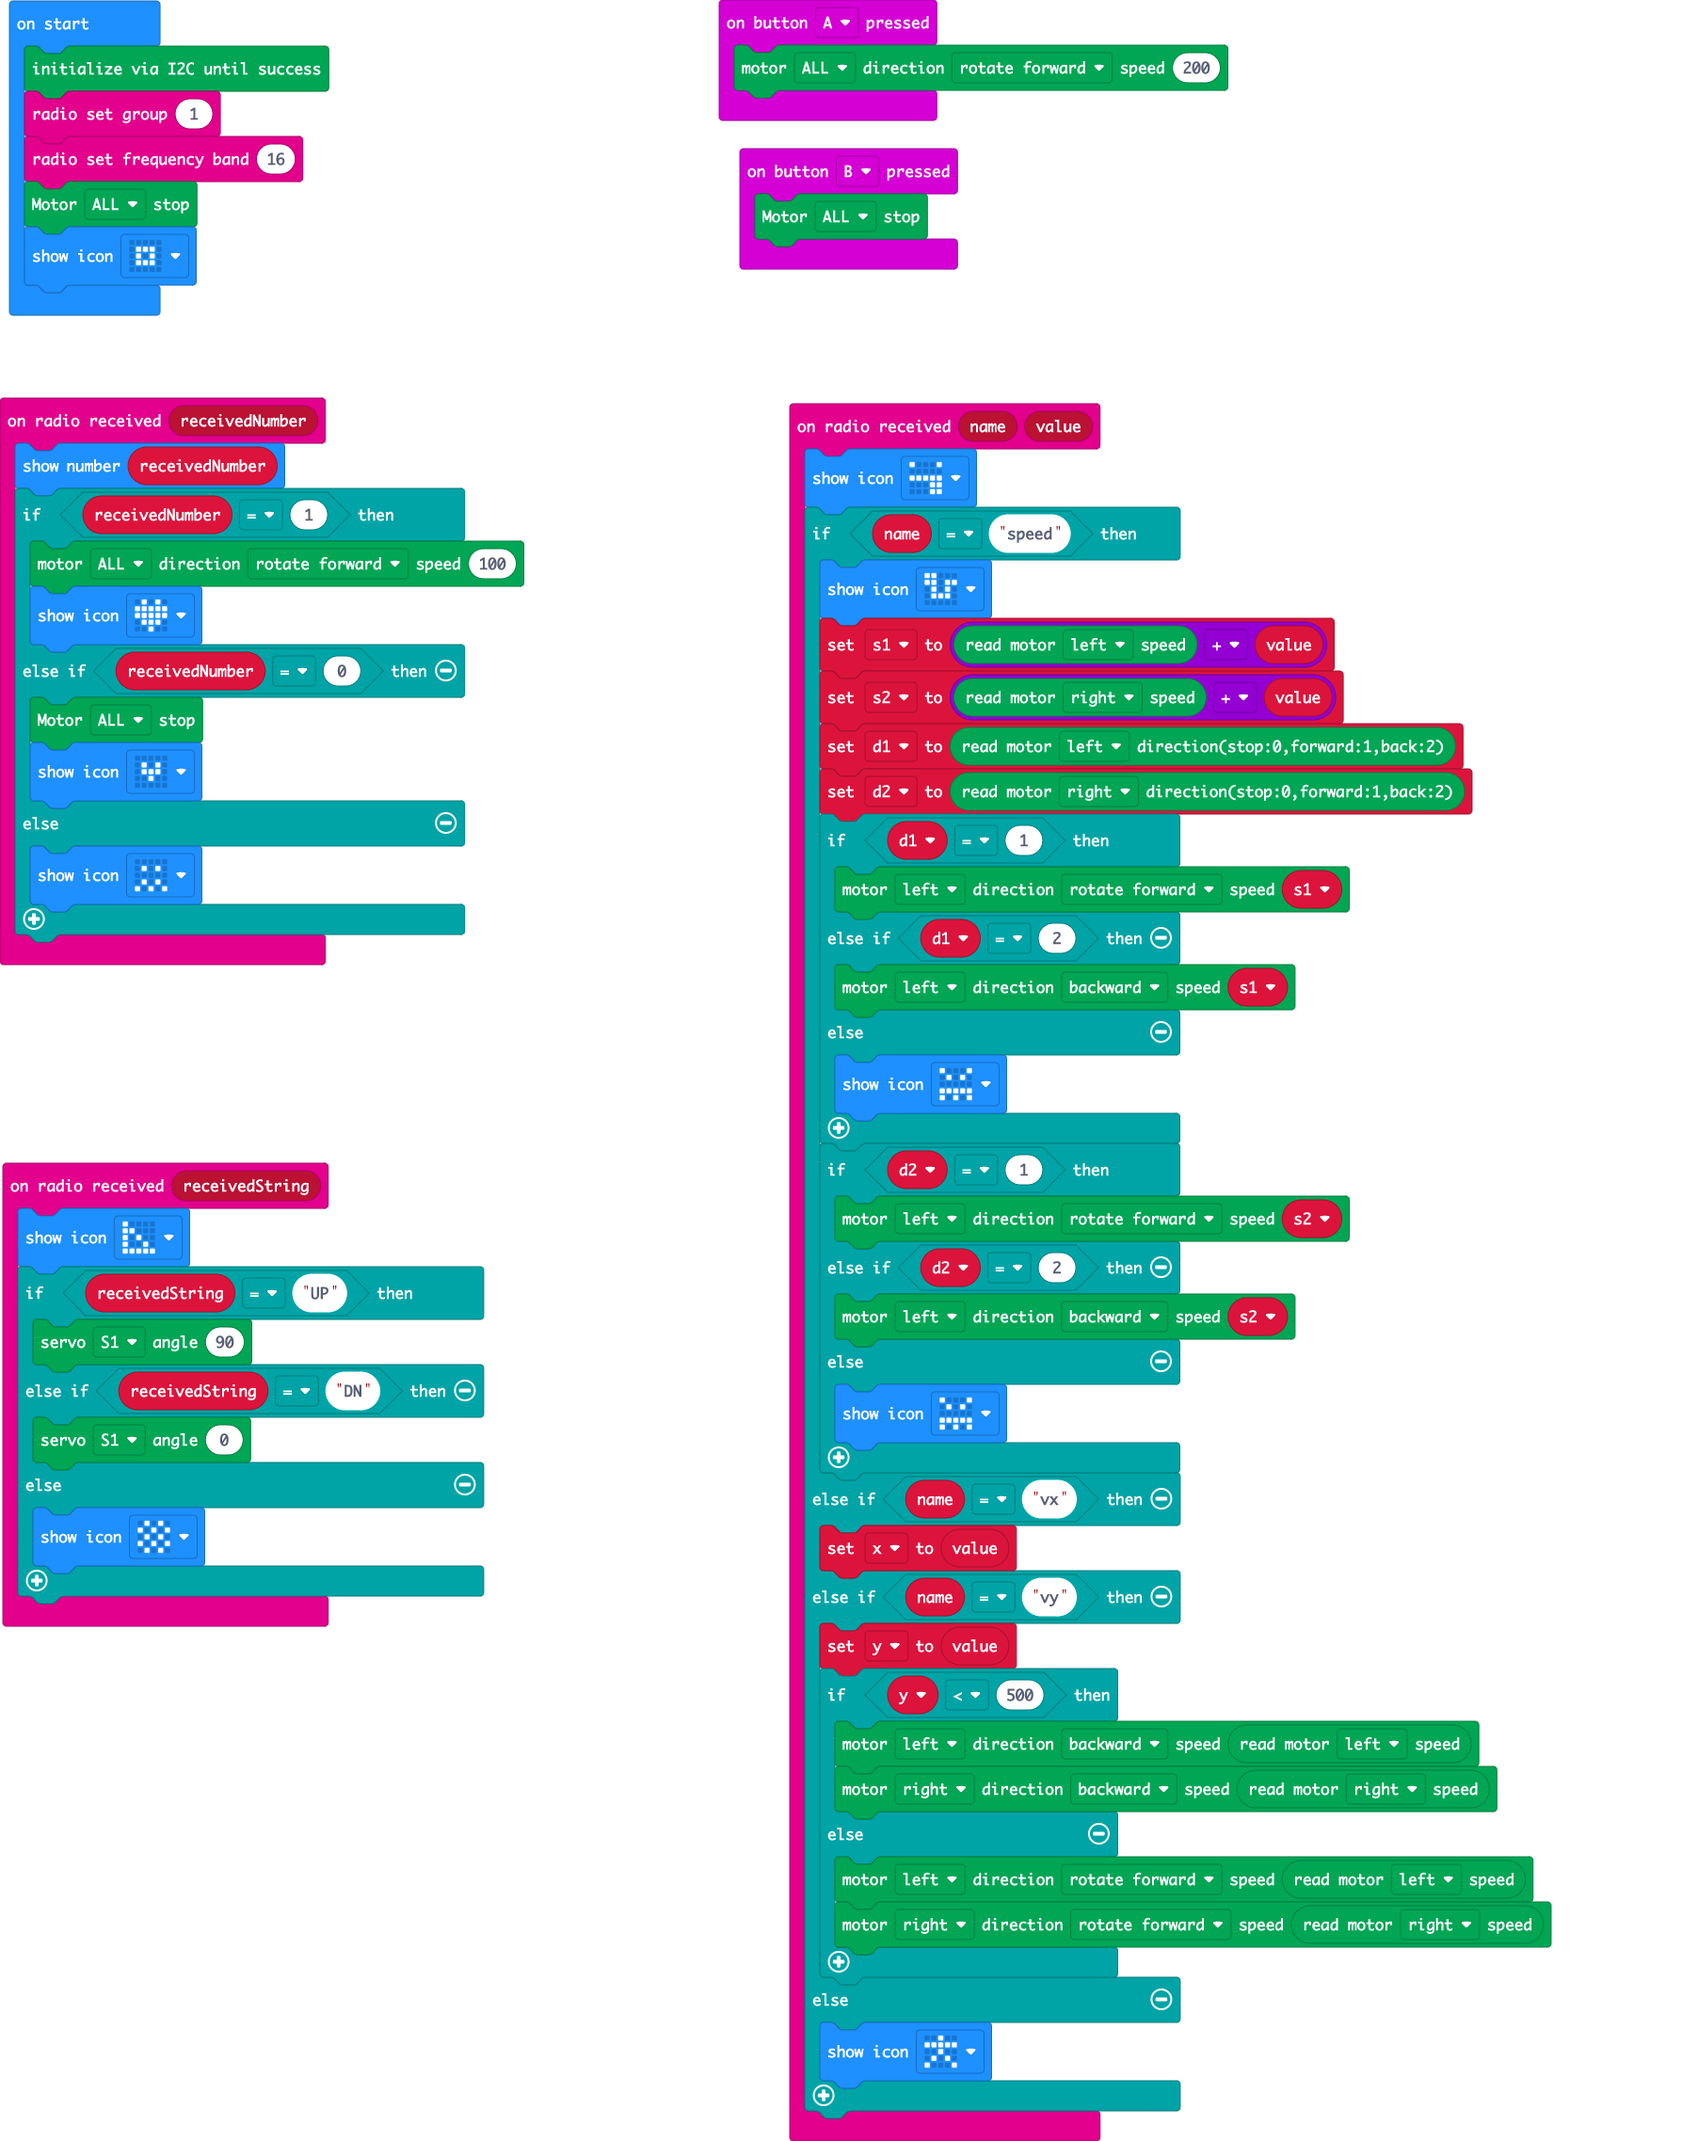
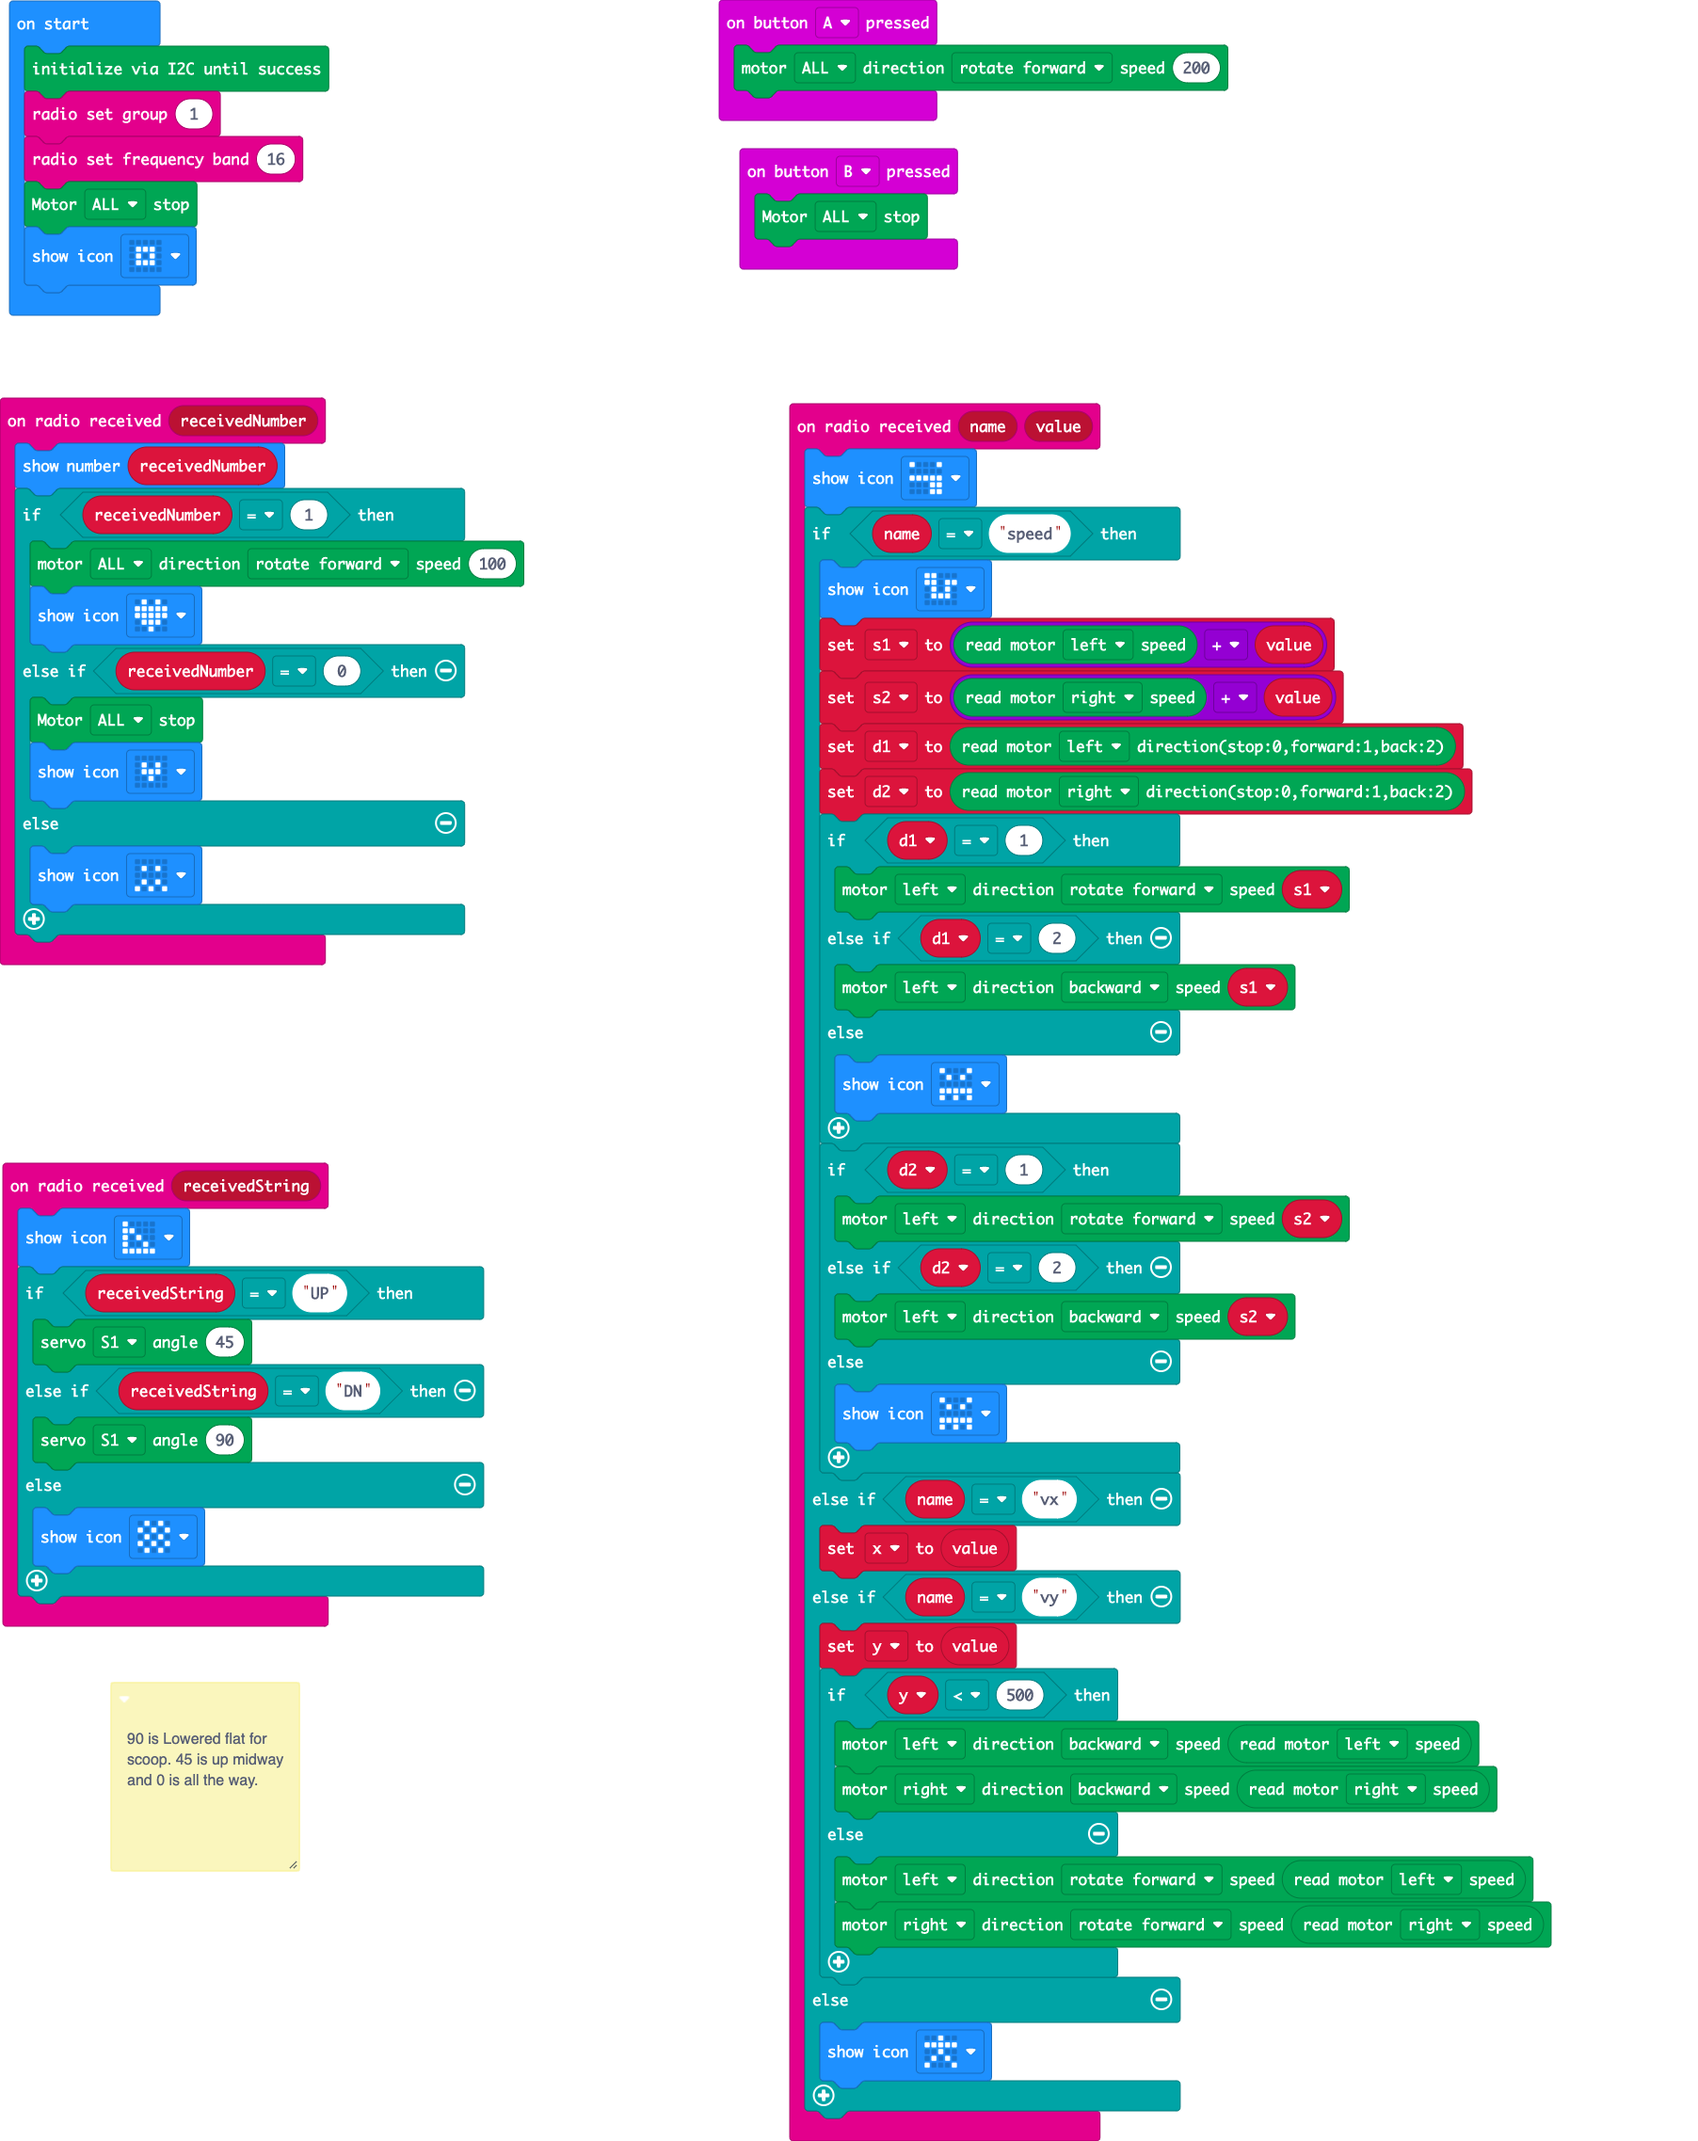
Update main.blocks, main.ts

Changed region(s): [[0.0621, 0.7802, 0.1863, 0.8738]]

diff --git a/main.ts b/main.ts
@@ -1,3 +1,6 @@
+/**
+ * 90 is Lowered flat for scoop. 45 is up midway and 0 is all the way.
+ */
 radio.onReceivedNumber(function (receivedNumber) {
     basic.showNumber(receivedNumber)
     if (receivedNumber == 1) {
@@ -16,9 +19,9 @@ input.onButtonPressed(Button.A, function () {
 radio.onReceivedString(function (receivedString) {
     basic.showIcon(IconNames.LeftTriangle)
     if (receivedString == "UP") {
-        DFRobotMaqueenPlus.servoRun(Servos.S1, 90)
+        DFRobotMaqueenPlus.servoRun(Servos.S1, 45)
     } else if (receivedString == "DN") {
-        DFRobotMaqueenPlus.servoRun(Servos.S1, 0)
+        DFRobotMaqueenPlus.servoRun(Servos.S1, 90)
     } else {
         basic.showIcon(IconNames.Chessboard)
     }
